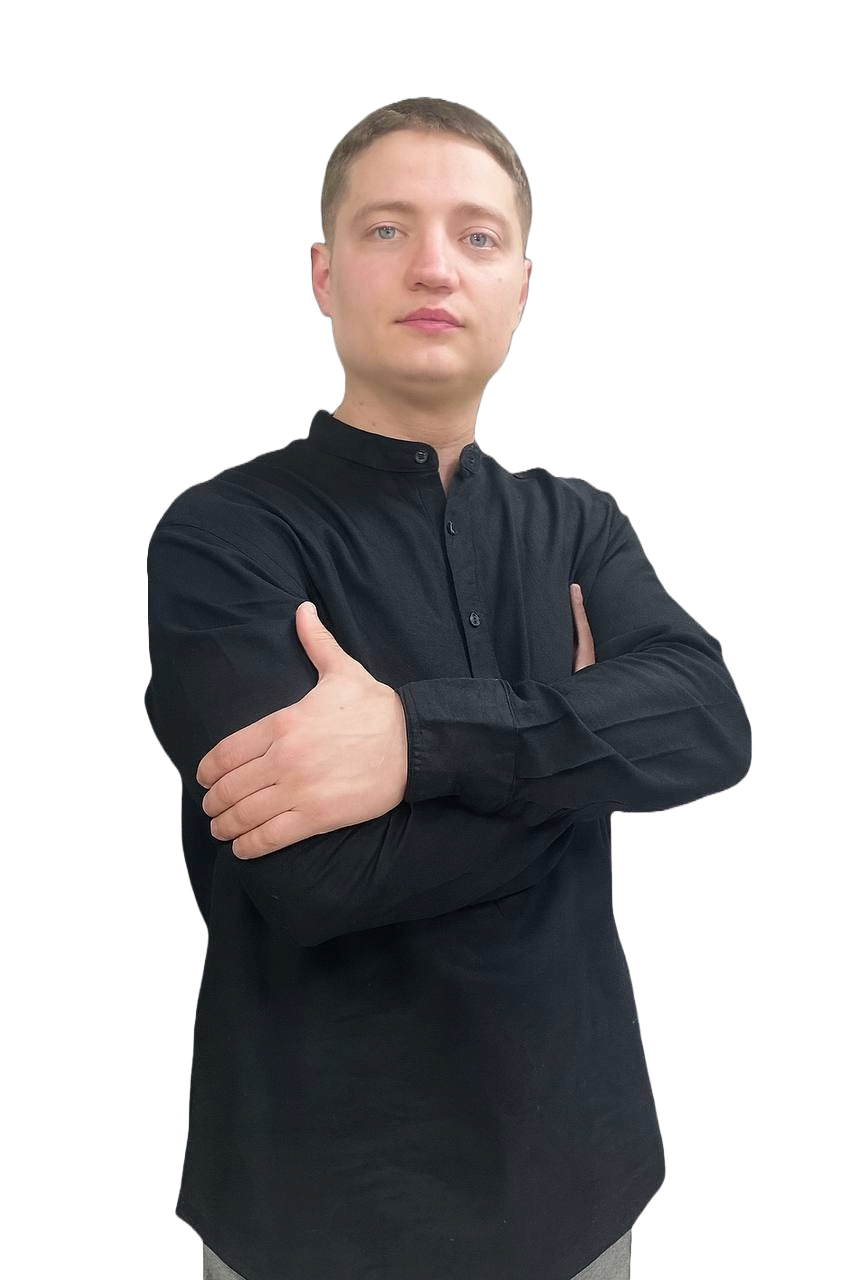
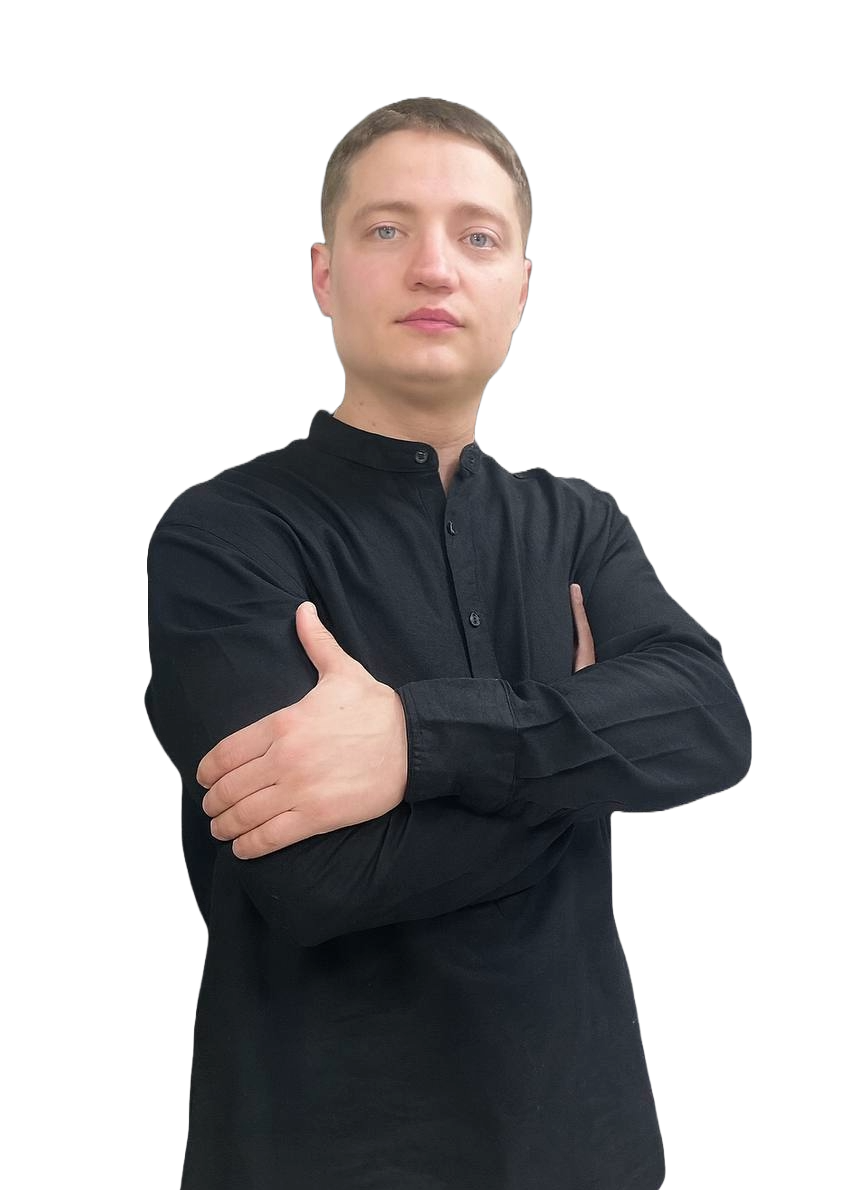
fix problem

Changed region(s): [[0.1524, 0.0622, 0.8839, 1.0], [0.6401, 0.684, 0.6706, 0.7151], [0.6401, 0.6218, 0.6706, 0.6529]]

diff --git a/index.html b/index.html
@@ -212,16 +212,14 @@
         </a>
       </div>
       <div class="hero__content">
-        <picture class="hero__picture">
-          <img
-            class="hero__image"
-            src="assets/images/hero/perfil.png"
-            alt=""
-            width=""
-            height=""
-            loading="lazy"
-          />
-        </picture>
+        <img
+          class="hero__image"
+          src="assets/images/hero/perfil.png"
+          alt=""
+          width=""
+          height=""
+          loading="lazy"
+        />
       </div>
     </div>
   </section>

diff --git a/assets/styles/components/hero.css b/assets/styles/components/hero.css
@@ -34,3 +34,17 @@
     align-self: start;
   }
 }
+
+.hero__image {
+  width: 700px;
+  justify-self: center;
+  mask-image: linear-gradient(
+    to bottom,
+    #000 80%,        /* Верхняя часть видна */
+    transparent 100%  /* Нижняя часть полностью прозрачна */
+  );
+
+  @media (max-width: 767px) {
+    width: 500px;
+  };
+}
